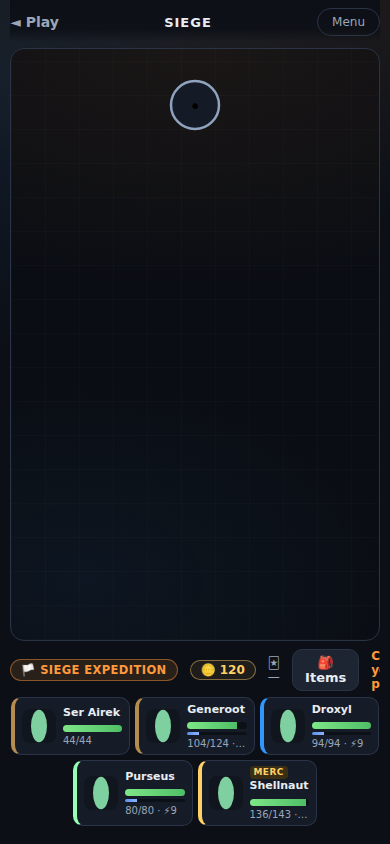
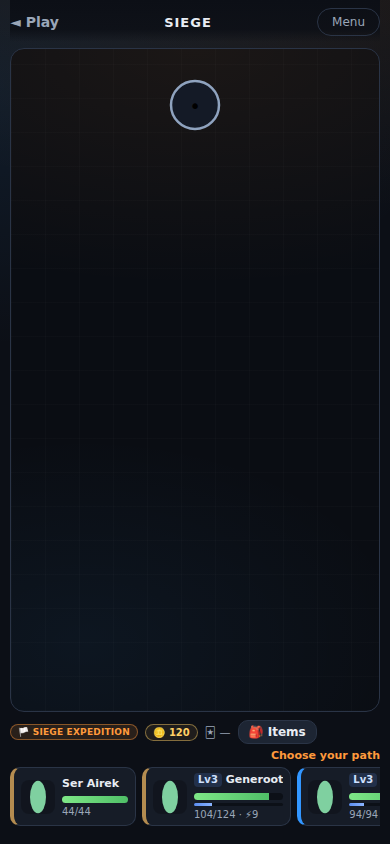
Make the Siege map HUD usable on portrait phones again
The party strip wrapped to two rows of third-width chips, and the resource
row never wrapped at all: badge, gold, deck count, Items, Extract and hint
overflowed a 370px line, so the Items button sat past the right edge with no
way to tap it.

The strip is a single horizontally scrollable row again — chips keep readable
names and their level badge, and a half-visible third chip advertises the
swipe. The resource row wraps, with the mode badge and gold chip shrunk so
they pair on one line rather than each taking a row; wrapping alone still
left a four-row, 181px HUD.

Cache pin: adventure.css 62 -> 63.

Claude-Session: https://claude.ai/code/session_011mQxEdrqqBDpVrAozhPkrc

Changed region(s): [[0.0, 0.7701, 0.9846, 0.9858], [0.4923, 0.7701, 0.6462, 0.8009], [0.9538, 0.7701, 0.9846, 0.8318]]

diff --git a/src/main/resources/static/css/adventure.css b/src/main/resources/static/css/adventure.css
@@ -2354,52 +2354,55 @@ body.siege-drag-active .sprite.drop-hover .sp-art{ filter:drop-shadow(0 0 18px r
 /* Portrait phones are too narrow to show every option at once, so the choice
    rows become swipeable carousels. Landscape has the width to lay them out
    flat and is handled at the bottom of this file instead. */
-/* Portrait phones: the map HUD strip scrolled horizontally while its chips sized
-   to their own text (128-179px each, ~800px of content in a 370px strip), so a
-   full warband already had members parked off-screen with nothing on screen to
-   hint they were there — hiring a merc only pushed the last one further out of
-   reach. The map screen has the vertical room (.map-scroll floors at 280px and
-   sits far above it), so the strip wraps to a second row and the chips share the
-   width three to a row instead: knight, warband and merc all visible at once,
-   no scrolling. Landscape deliberately keeps the scroll — its short viewport has
-   no spare height to give a second row. */
+/* Portrait phones: the map HUD is the only chrome under a full-height map, so
+   it has to stay one or two shallow rows. Wrapping the party strip to a second
+   row (three chips wide) was tried and rejected in play: it stole most of the
+   HUD height, stacked the team into a block that read as a wall, and squeezed
+   the chips so hard that names clipped. The strip is a single row that scrolls
+   horizontally instead — the team is swipeable, the chips keep readable names
+   and their level badge, and the HUD stays shallow enough that the resource row
+   below it (including the Items button) stays on screen. */
 @media (max-width:640px) and (orientation:portrait){
   .map-bottom .party-strip{
-    flex-wrap:wrap; overflow-x:visible; gap:5px; justify-content:center;
+    flex-wrap:nowrap; overflow-x:auto; gap:6px; margin:5px 0 0; padding-bottom:2px;
+    /* Horizontal swipe belongs to the strip; the page itself must not pan. */
+    touch-action:pan-x; -webkit-overflow-scrolling:touch; scrollbar-width:none;
   }
+  .map-bottom .party-strip::-webkit-scrollbar{display:none; height:0;}
   .map-bottom .party-chip{
-    /* Three to a row: a third of the strip, less the gap each chip shares. */
-    flex:1 1 calc(33.333% - 4px); min-width:0; max-width:calc(33.333% - 4px);
-    padding:5px 7px; gap:7px;
+    /* Sized so a third chip is half-visible at 390px: the cut-off edge is what
+       tells the player the strip keeps going. */
+    flex:0 0 auto; min-width:126px; max-width:150px; padding:5px 7px; gap:7px;
   }
   .map-bottom .party-chip .pthumb{width:34px; height:34px; flex-basis:34px;}
   .map-bottom .party-chip .pname{font-size:11px;}
   .map-bottom .party-chip .phptext{font-size:10px;}
-  /* The body is now the narrow part, so every line has to clip itself rather
-     than force the chip wider than its third. */
   .map-bottom .party-chip .pname,
   .map-bottom .party-chip .phptext{
     overflow:hidden; text-overflow:ellipsis; white-space:nowrap;
   }
-  /* At a third of the strip the name line is ~77px, and the level badge plus
-     the ⓘ glyph ate enough of it to leave "Ge…". Which Siegeling it is matters
-     more at a glance than its level, so on this strip only the badge and the
-     glyph give way: the level still shows on the resume card, in landscape, on
-     desktop and in the chip's own detail modal, and the XP bar underneath
-     already reads as progression. The Merc badge stays — it is this chip's
-     identity, not a stat. */
-  .map-bottom .party-chip .plvl,
+  /* The ⓘ glyph opens a modal the whole chip already opens, so it is the one
+     thing on the narrow chip that can go without losing information. */
   .map-bottom .party-chip .pinfo{display:none;}
-  /* The Merc badge cannot give way for the same reason, and inline it left
-     "MERC …" with no creature at all. A merc carries no XP bar, so its chip has
-     a spare row: the badge stacks above the name and takes that slack, leaving
-     the name the full line. (The bare text node becomes an anonymous flex item,
-     which is why this works without touching the markup.) */
-  .map-bottom .party-chip.merc .pname{
-    display:flex; flex-direction:column; align-items:flex-start; gap:1px;
-    line-height:1.15;
+
+  /* The resource row was a single nowrap line: mode badge + gold + deck/save
+     count + Items + Extract + hint overflowed a 370px row, pushing the Items
+     button off the right edge with no way to reach it. It wraps now, and the
+     hint takes its own line so the buttons keep a full row to themselves. */
+  .map-meta{flex-wrap:wrap; gap:5px 7px; font-size:11px;}
+  /* Wrapping alone was not enough: the mode badge and the gold chip are ~212px
+     and ~221px at their full size, so each claimed a line of its own and the
+     HUD grew four rows deep. Shrunk, they pair on one line and everything else
+     — deck/save count, Items, Extract, hint — lands on the next. */
+  .map-meta .run-slot-badge{
+    font-size:9px; padding:2px 7px; letter-spacing:.2px; max-width:52%;
+    overflow:hidden; text-overflow:ellipsis;
   }
-  .map-bottom .party-chip.merc .pmerc{margin-right:0;}
+  .map-meta .gold-chip{font-size:10px; padding:2px 7px;}
+  /* Let the deck/save chip wrap as a unit — broken over two lines it doubled
+     the row height for one line of text. */
+  .map-meta #mapDeckCount{white-space:nowrap;}
+  .map-inv-btn, .map-extract-btn{padding:4px 10px; font-size:12px;}
 }
 
 @media (max-width:760px) and (orientation:portrait){

diff --git a/src/main/resources/static/adventure.html b/src/main/resources/static/adventure.html
@@ -5,7 +5,7 @@
 <meta name="viewport" content="width=device-width, initial-scale=1, viewport-fit=cover">
 <title>Siege — Siegelings Adventure</title>
 <link rel="icon" href="/favicon.png">
-<link rel="stylesheet" href="/css/adventure.css?v=62">
+<link rel="stylesheet" href="/css/adventure.css?v=63">
 </head>
 <body>
 <!-- Enemy Siegelings are corrupted card art, so they need the same die-cut shade

diff --git a/progress.md b/progress.md
@@ -1,3 +1,8 @@
+Original prompt: Map portrait hud is all messed up. These items should not be stacked and I can't access the inventory buttons the creature should be scrollable
+
+- August 17, 2026 Rebuilt the Siege map HUD on portrait phones after the wrap from the previous entry was rejected in play. Two defects, one screenshot: the party strip stacked the team into two rows of third-width chips that ate the HUD, and the resource row `.map-meta` was a single `nowrap` line — mode badge, gold chip, deck/save count, Items, Extract, hint — that overflowed a 370px row and pushed the **Items button off the right edge with no way to tap it**. Fixed in `adventure.css` only (no JS, no Java), inside the same `@media (max-width:640px) and (orientation:portrait)` block: the strip goes back to a single horizontally scrollable row (`flex-wrap:nowrap`, `overflow-x:auto`, `touch-action:pan-x`, hidden scrollbar) with chips at `min-width:126px`/`max-width:150px` so a third chip is half-visible at 390px and the cut edge advertises the swipe; the `Lv3` badge comes back (only the `ⓘ` glyph stays hidden, since tapping the chip opens the same modal); and `.map-meta` wraps, with the mode badge and gold chip shrunk (9px/10px, tighter padding, badge ellipsised at 52%) so they pair on one line instead of each claiming a row of its own — wrapping alone still left a four-row, 181px HUD. Cache pin: `adventure.css` 62 -> 63 on `adventure.html`.
+- Verification: new guard `tests/siege-map-hud-portrait-check.cjs` renders the worst case (Battlegrounds run, knight + 3-strong warband + merc = 5 chips, checkpoint saved) at five viewports and asserts what the report was about — the Items button is fully inside the viewport **and is the top element at its own centre** (`elementFromPoint`), `.map-meta` does not overflow, the page never scrolls horizontally, the strip is one row that actually scrolls, every chip is reachable within the scroll extent and still names its unit, swiping to the end brings the last chip fully into view, `.map-scroll` keeps its 280px floor and the HUD stays <=160px. All pass: 390x844 HUD 130px / map 660px, 360x740 151px / 535px, 320x568 151px / 363px, landscape 844x390 and desktop 1920x1080 unchanged at 100px and 122px. Screenshots read back at 390 and 320 to confirm the badge ellipsis and the peeking third chip. `tests/siege-merc-at-stops-check.cjs` had encoded the wrap as its contract; its portrait assertions now check reachable-and-named instead of all-in-view, and it passes, as do `siege-merc-party-layout-check.cjs` and `siege-mode-saves-check.cjs` (the latter still reads the HUD chip order). `GameJavaScriptRegressionTest` + `AdventureLinePuzzleJavaScriptTest` green (the pin assertion is a `>= 56` floor).
+
 Original prompt: Continue
 
 - August 17, 2026 Closed the follow-up left open by PR #714: on portrait phones the map HUD party strip scrolled horizontally while its chips sized to their own text — measured at **807px of content in a 370px strip** at 390x844 — so a full 3-strong warband already had members parked off-screen with nothing on screen hinting they existed, and hiring a merc pushed the last one further out of reach. This was pre-existing rather than caused by the merc work, but the merc made it visible. Fixed in `adventure.css` only (no JS, no Java): a new `@media (max-width:640px) and (orientation:portrait)` block wraps `.map-bottom .party-strip` to a second row and gives each chip `flex:1 1 calc(33.333% - 4px)` with `min-width:0`, so knight + warband + merc share the width three to a row and the whole team is visible at once. Landscape deliberately keeps its horizontal scroll — the `(max-height:600px)` shell has no spare height for a second row. Two refinements came out of actually looking at the render rather than trusting the measurement: the first wrap attempt fit all five chips but truncated every name to `"Ge…"`/`"Dr…"`, because the `Lv3` badge and the `ⓘ` glyph ate a ~77px line, so both are hidden **on this strip only** (level still shows on the resume card, in landscape, on desktop and in the chip's own detail modal, and the XP bar underneath already reads as progression); and the merc chip still showed `"MERC …"` with no creature at all, so since a merc carries no XP bar its `.pname` becomes a column flex and the badge stacks above the name in that spare row, leaving the name a full line. Cache pin: `adventure.css` 61 -> 62 on `adventure.html` (JS untouched this round, so `adventure.js?v=66` stands).
